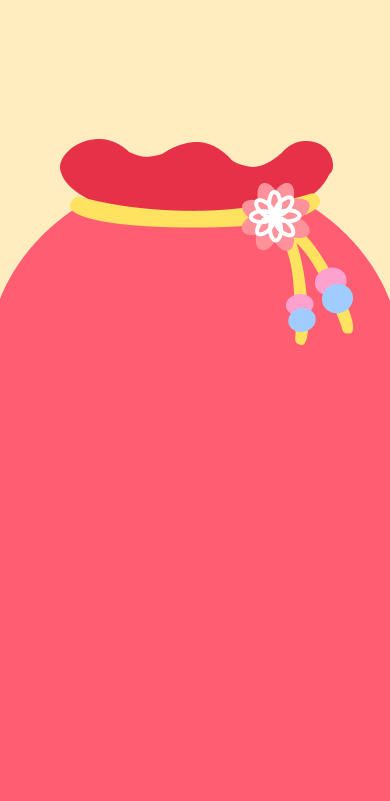
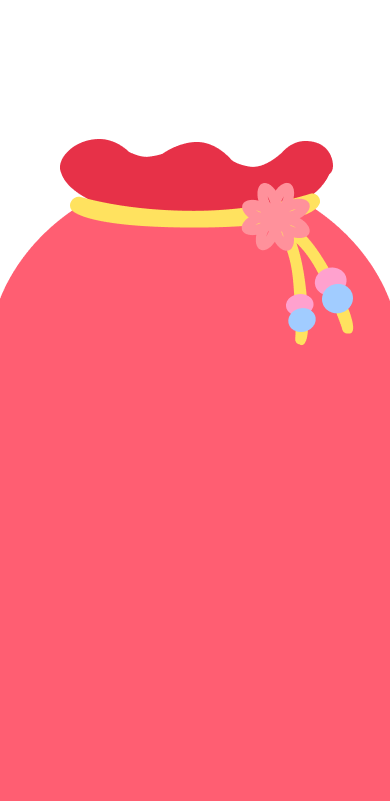
create image files

Changed region(s): [[0.0, 0.0, 1.0, 0.3745]]

diff --git a/client/src/components/views/LandingPage/LandingPage.js b/client/src/components/views/LandingPage/LandingPage.js
@@ -9,7 +9,7 @@ function LandingPage( props ) {
             <div className="app" style={{ display: 'flex', justifyContent: 'center',
                                         flexDirection: 'column', alignItems: 'center',
                                         width: '100%', height: '100vh',
-                                        backgroundImage: "url('img/back-repeat.gif')",
+                                        backgroundImage: "url('img/back-repeat-red.gif')",
                                         backgroundPosition: 'center',
                                         backgroundSize: 'cover',
                                         backgroundRepeat: 'no-repeat',
